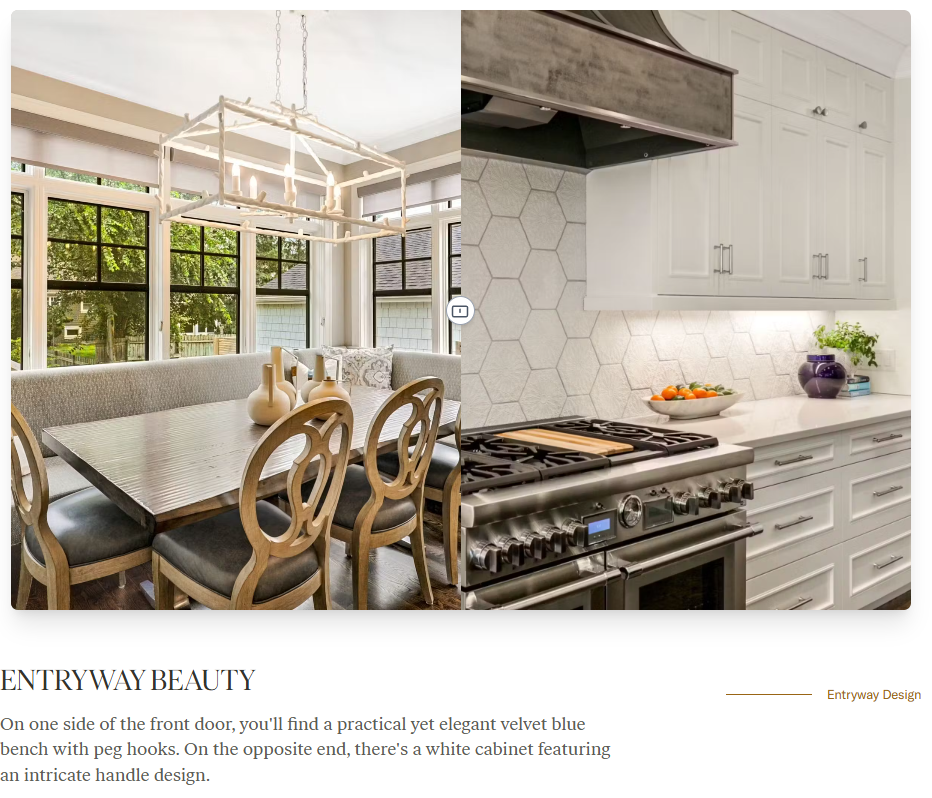
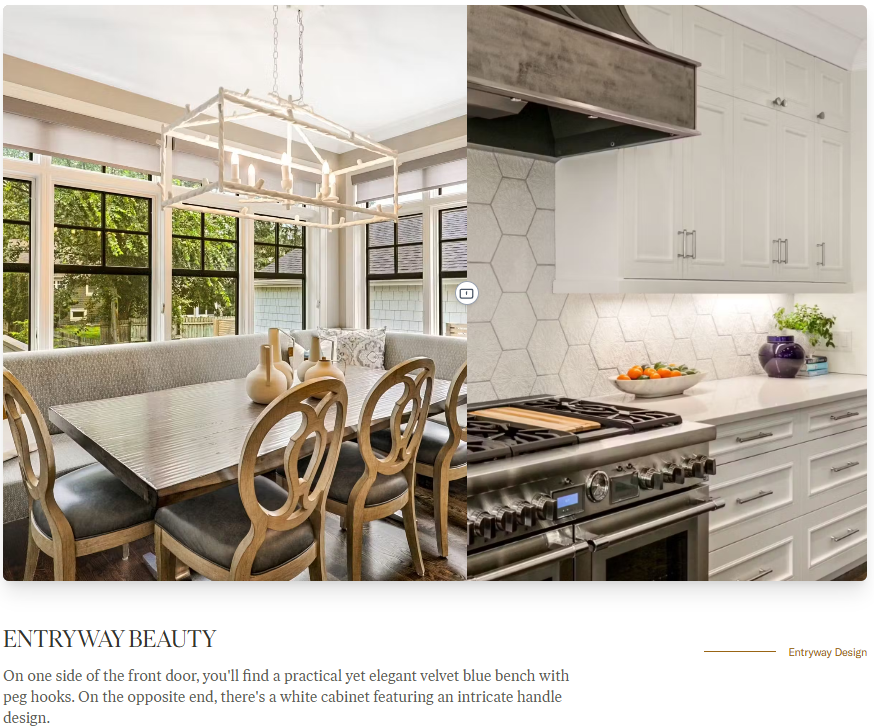
updated StorySection to display Before And After Basic

diff --git a/prismicio-types.d.ts b/prismicio-types.d.ts
@@ -4,7 +4,7 @@ import type * as prismic from "@prismicio/client";
 
 type Simplify<T> = { [KeyType in keyof T]: T[KeyType] };
 
-type BlogDocumentDataSlicesSlice = StorySectionSlice | BlogSectionSlice;
+type BlogDocumentDataSlicesSlice = BlogSectionSlice | StorySectionSlice;
 
 /**
  * Content for Blog documents
@@ -2444,7 +2444,7 @@ export interface StorySectionSliceBeforeAndAfterSliderPrimary {
   tag: prismic.KeyTextField;
 
   /**
-   * Before and After Width field in *StorySection → Before And After Slider → Primary*
+   * Before and After Slider Width field in *StorySection → Before And After Slider → Primary*
    *
    * - **Field Type**: Select
    * - **Placeholder**: *None*
@@ -2453,17 +2453,6 @@ export interface StorySectionSliceBeforeAndAfterSliderPrimary {
    * - **Documentation**: https://prismic.io/docs/field#select
    */
   before_and_after_width: prismic.SelectField<"100%" | "80%", "filled">;
-
-  /**
-   * Slider Function Toggle On / Off field in *StorySection → Before And After Slider → Primary*
-   *
-   * - **Field Type**: Boolean
-   * - **Placeholder**: *None*
-   * - **Default Value**: true
-   * - **API ID Path**: story_section.beforeAndAfterSlider.primary.slider_function_toggle
-   * - **Documentation**: https://prismic.io/docs/field#boolean
-   */
-  slider_function_toggle: prismic.BooleanField;
 }
 
 /**
@@ -2481,12 +2470,105 @@ export type StorySectionSliceBeforeAndAfterSlider =
   >;
 
 /**
+ * Primary content in *StorySection → Before And After Basic → Primary*
+ */
+export interface StorySectionSliceBeforeAndAfterBasicPrimary {
+  /**
+   * Before Image field in *StorySection → Before And After Basic → Primary*
+   *
+   * - **Field Type**: Image
+   * - **Placeholder**: *None*
+   * - **API ID Path**: story_section.beforeAndAfterBasic.primary.before_image
+   * - **Documentation**: https://prismic.io/docs/field#image
+   */
+  before_image: prismic.ImageField<never>;
+
+  /**
+   * Before Title field in *StorySection → Before And After Basic → Primary*
+   *
+   * - **Field Type**: Title
+   * - **Placeholder**: *None*
+   * - **API ID Path**: story_section.beforeAndAfterBasic.primary.before_title
+   * - **Documentation**: https://prismic.io/docs/field#rich-text-title
+   */
+  before_title: prismic.TitleField;
+
+  /**
+   * Before Description field in *StorySection → Before And After Basic → Primary*
+   *
+   * - **Field Type**: Rich Text
+   * - **Placeholder**: *None*
+   * - **API ID Path**: story_section.beforeAndAfterBasic.primary.before_description
+   * - **Documentation**: https://prismic.io/docs/field#rich-text-title
+   */
+  before_description: prismic.RichTextField;
+
+  /**
+   * After Image field in *StorySection → Before And After Basic → Primary*
+   *
+   * - **Field Type**: Image
+   * - **Placeholder**: *None*
+   * - **API ID Path**: story_section.beforeAndAfterBasic.primary.after_image
+   * - **Documentation**: https://prismic.io/docs/field#image
+   */
+  after_image: prismic.ImageField<never>;
+
+  /**
+   * After Title field in *StorySection → Before And After Basic → Primary*
+   *
+   * - **Field Type**: Title
+   * - **Placeholder**: *None*
+   * - **API ID Path**: story_section.beforeAndAfterBasic.primary.after_title
+   * - **Documentation**: https://prismic.io/docs/field#rich-text-title
+   */
+  after_title: prismic.TitleField;
+
+  /**
+   * After Description field in *StorySection → Before And After Basic → Primary*
+   *
+   * - **Field Type**: Rich Text
+   * - **Placeholder**: *None*
+   * - **API ID Path**: story_section.beforeAndAfterBasic.primary.after_description
+   * - **Documentation**: https://prismic.io/docs/field#rich-text-title
+   */
+  after_description: prismic.RichTextField;
+
+  /**
+   * Before and After Basic Width field in *StorySection → Before And After Basic → Primary*
+   *
+   * - **Field Type**: Select
+   * - **Placeholder**: *None*
+   * - **Default Value**: 100%
+   * - **API ID Path**: story_section.beforeAndAfterBasic.primary.before_and_after_basic_width
+   * - **Documentation**: https://prismic.io/docs/field#select
+   */
+  before_and_after_basic_width: prismic.SelectField<
+    "100%" | "80%" | "60%",
+    "filled"
+  >;
+}
+
+/**
+ * Before And After Basic variation for StorySection Slice
+ *
+ * - **API ID**: `beforeAndAfterBasic`
+ * - **Description**: Default
+ * - **Documentation**: https://prismic.io/docs/slice
+ */
+export type StorySectionSliceBeforeAndAfterBasic = prismic.SharedSliceVariation<
+  "beforeAndAfterBasic",
+  Simplify<StorySectionSliceBeforeAndAfterBasicPrimary>,
+  never
+>;
+
+/**
  * Slice variation for *StorySection*
  */
 type StorySectionSliceVariation =
   | StorySectionSliceDefault
   | StorySectionSliceSplitContent
-  | StorySectionSliceBeforeAndAfterSlider;
+  | StorySectionSliceBeforeAndAfterSlider
+  | StorySectionSliceBeforeAndAfterBasic;
 
 /**
  * StorySection Shared Slice
@@ -2624,10 +2706,12 @@ declare module "@prismicio/client" {
       StorySectionSliceDefaultPrimary,
       StorySectionSliceSplitContentPrimary,
       StorySectionSliceBeforeAndAfterSliderPrimary,
+      StorySectionSliceBeforeAndAfterBasicPrimary,
       StorySectionSliceVariation,
       StorySectionSliceDefault,
       StorySectionSliceSplitContent,
       StorySectionSliceBeforeAndAfterSlider,
+      StorySectionSliceBeforeAndAfterBasic,
     };
   }
 }

diff --git a/src/slices/Story/StorySection/index.tsx b/src/slices/Story/StorySection/index.tsx
@@ -211,7 +211,6 @@ const StorySection: ({slice}: { slice: any }) => (React.JSX.Element | null) = ({
 
     case "beforeAndAfterSlider": // "Before And After Slider"
       const sliderPrimary = primary as StorySectionSliceBeforeAndAfterSliderPrimary;
-      console.log(sliderPrimary)
 
       const beforeImage = sliderPrimary.before_image;
       const afterImage = sliderPrimary.after_image;
@@ -220,14 +219,14 @@ const StorySection: ({slice}: { slice: any }) => (React.JSX.Element | null) = ({
       const afterWidth = afterImage?.dimensions?.width || 0;
       const useLargeWidth = beforeWidth > 1000 && afterWidth > 1000;
       // console.log(useLargeWidth)
-      const containerMaxWidth = useLargeWidth ? "max-w-[1000px]" : "max-w-[400px]";
+      const containerMaxWidth = useLargeWidth ? "max-w-[100%]" : "max-w-[400px]";
 
       if (!isFilled.image(beforeImage) || !isFilled.image(afterImage)) {
         console.warn("BeforeAndAfterSlider variation: Missing 'before_image' or 'after_image'.");
         return null;
       }
 
-      const BeforeAndAfterWidth = primary.split_content_width == "100%" ? "max-w-6xl" : "max-w-5xl"
+      const BeforeAndAfterWidth = primary.before_and_after_width == "100%" ? "max-w-6xl" : "max-w-5xl"
 
       return (
           <section
@@ -324,6 +323,73 @@ const StorySection: ({slice}: { slice: any }) => (React.JSX.Element | null) = ({
                       </div>
                     </div>
                 )}
+              </div>
+            </Bounded>
+          </section>
+      );
+
+    case "beforeAndAfterBasic":
+      let BeforeAndAfterBasicWidth;
+
+      switch (primary.before_and_after_basic_width) {
+        case "100%":
+          BeforeAndAfterBasicWidth = "max-w-6xl";
+          break;
+        case "80%":
+          BeforeAndAfterBasicWidth = "max-w-5xl";
+          break;
+        case "60%":
+          BeforeAndAfterBasicWidth = "max-w-3xl";
+          break;
+        default:
+          BeforeAndAfterBasicWidth = "max-w-6xl";
+      }
+
+      return (
+          <section {...sectionBaseProps} aria-label="Showcase Images with Caption">
+            <Bounded widthClass={BeforeAndAfterBasicWidth}>
+              <div className="mx-auto grid grid-cols-1 md:grid-cols-2 gap-x-8 lg:gap-x-12 gap-y-10 md:gap-y-0">
+
+                {/* Column 1: Image One & Description One */}
+                <div className="flex flex-col">
+                  {isFilled.image(primary.before_image) && (
+                      <PrismicNextImage
+                          field={primary.before_image}
+                          className=""
+                      />
+                  )}
+                  {isFilled.richText(primary.before_title) && (
+                      <div className="mt-2 flex items-center uppercase sm:text-[22px] md:text-[26px] text-black-900 leading-tight font-ivar-display">
+                        <PrismicRichText field={primary.before_title}/>
+                      </div>
+                  )}
+                  {isFilled.richText(primary.before_description) && (
+                      <div className="text-base leading-relaxed prose prose-sm max-w-none mt-2">
+                        <PrismicRichText field={primary.before_description}/>
+                      </div>
+                  )}
+                </div>
+
+                {/* Column 2: Image Two & Description Two */}
+                <div className="flex flex-col">
+                  {isFilled.image(primary.after_image) && (
+                      <PrismicNextImage
+                          field={primary.after_image}
+                          className="img-responsive"
+                      />
+                  )}
+                  {isFilled.richText(primary.after_title) && (
+                      <div className="mt-2 flex items-center uppercase sm:text-[22px] md:text-[26px] text-black-900 leading-tight font-ivar-display">
+                        <PrismicRichText field={primary.after_title}/>
+                      </div>
+                  )}
+                  {isFilled.richText(primary.after_description) && (
+                      <div className="text-base leading-relaxed prose prose-sm max-w-none mt-2">
+                        <PrismicRichText field={primary.after_description}/>
+                      </div>
+                  )}
+                </div>
+
               </div>
             </Bounded>
           </section>
